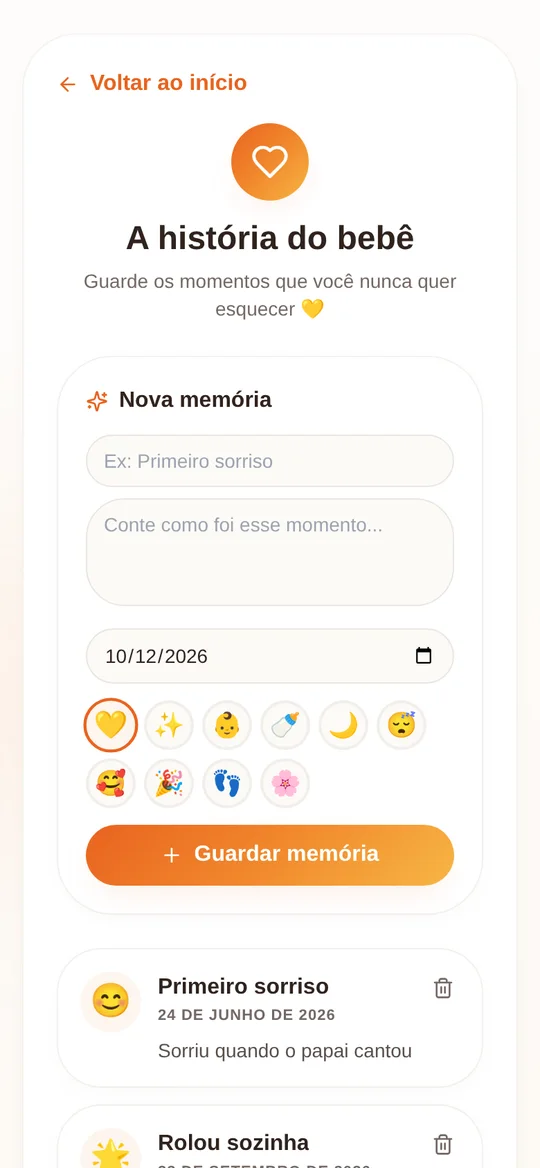
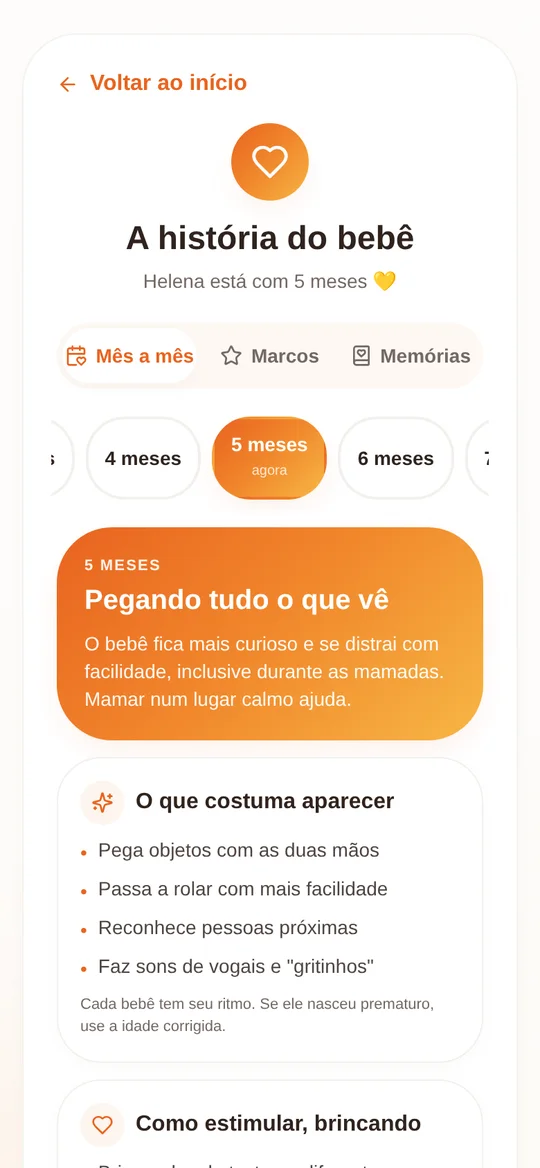
Novos prints da História do bebê (mês a mês e marcos)
Claude-Session: https://claude.ai/code/session_01YXsp7tEARp4VQWaAAPmCZY

diff --git a/index.html b/index.html
@@ -488,11 +488,23 @@ footer p+p{margin-top:8px}
       </div>
 
       <div class="rec">
-        <div class="cel rev"><img src="assets/tela-historia.webp" alt="Tela A história do bebê" loading="lazy"></div>
+        <div class="cel rev"><img src="assets/tela-historia.webp" alt="Tela A história do bebê, guia mês a mês" loading="lazy"></div>
         <div class="rev">
-          <span class="tag">A história do bebê</span>
+          <span class="tag">A história do bebê · Mês a mês</span>
+          <h3>O que esperar <em>neste mês</em>, sem procurar no Google</h3>
+          <p>O app abre direto na idade do seu bebê e mostra, mês a mês até 1 ano, o que costuma aparecer no desenvolvimento e o que fazer em cada fase.</p>
+          <ul><li>Brincadeiras para estimular, sono e alimentação da fase</li><li>Vacinas daquela idade, pelo calendário do SUS</li><li>Quando conversar com o pediatra e sinais de alerta</li></ul>
+          <span class="dor-tag">Informação da Caderneta da Criança e do Ministério da Saúde, num lugar só.</span>
+        </div>
+      </div>
+
+      <div class="rec">
+        <div class="cel rev"><img src="assets/tela-marcos.webp" alt="Tela de marcos do desenvolvimento" loading="lazy"></div>
+        <div class="rev">
+          <span class="tag">A história do bebê · Marcos</span>
           <h3>O primeiro sorriso <em>não vai se perder</em></h3>
-          <p>Guarde cada momento com data, um emoji e uma frase curta. Em poucos meses, você tem a linha do tempo do primeiro ano dele.</p>
+          <p>Primeiro sorriso, primeira risada, sentou sozinho, primeiro dentinho, primeiros passos. Toque quando acontecer e o app guarda com a data, numa linha do tempo do primeiro ano.</p>
+          <ul><li>25 conquistas do primeiro ano para marcar</li><li>Espaço para guardar qualquer outra memória</li></ul>
         </div>
       </div>
     </div>
@@ -570,7 +582,8 @@ footer p+p{margin-top:8px}
         <li><b>Rotina Inteligente</b><span class="sub">Próxima soneca e hora de dormir para a idade dele</span></li>
         <li><b>Registro de mamadas</b><span class="sub">Horário, peito ou fórmula e duração</span></li>
         <li><b>Meu Painel</b><span class="sub">Madrugadas, mamadas e progresso da semana em números</span></li>
-        <li><b>Diário da Mamãe</b> e <b>A história do bebê</b></li>
+        <li><b>A história do bebê</b><span class="sub">Guia mês a mês até 1 ano, marcos do desenvolvimento e memórias</span></li>
+        <li><b>Diário da Mamãe</b></li>
         <li><b>Carteirinha de Vacinas</b> do primeiro ano</li>
         <li><b>Berço Sem Choro</b>, <b>Hora da Bruxa</b> e <b>10 capítulos</b> sobre o sono</li>
         <li class="bonus"><b>Bônus:</b> Planner do Sono para imprimir e músicas para dormir</li>
